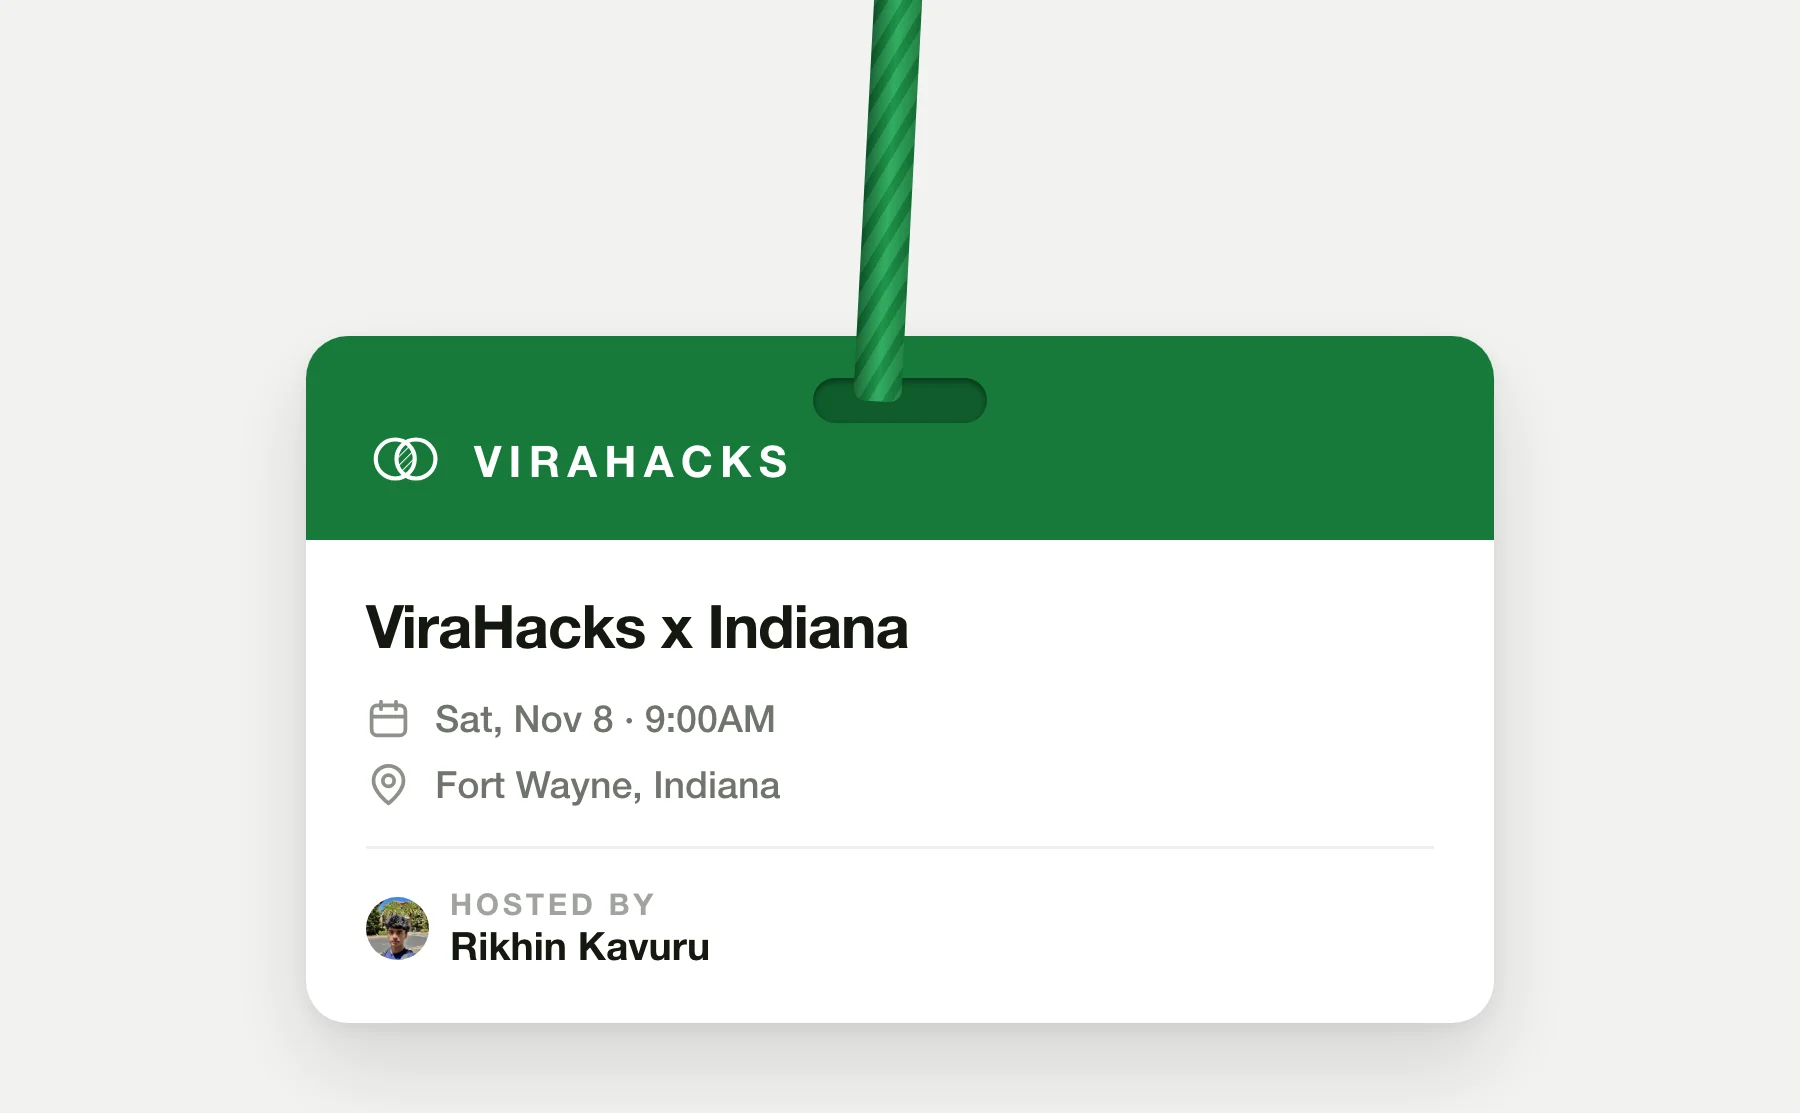
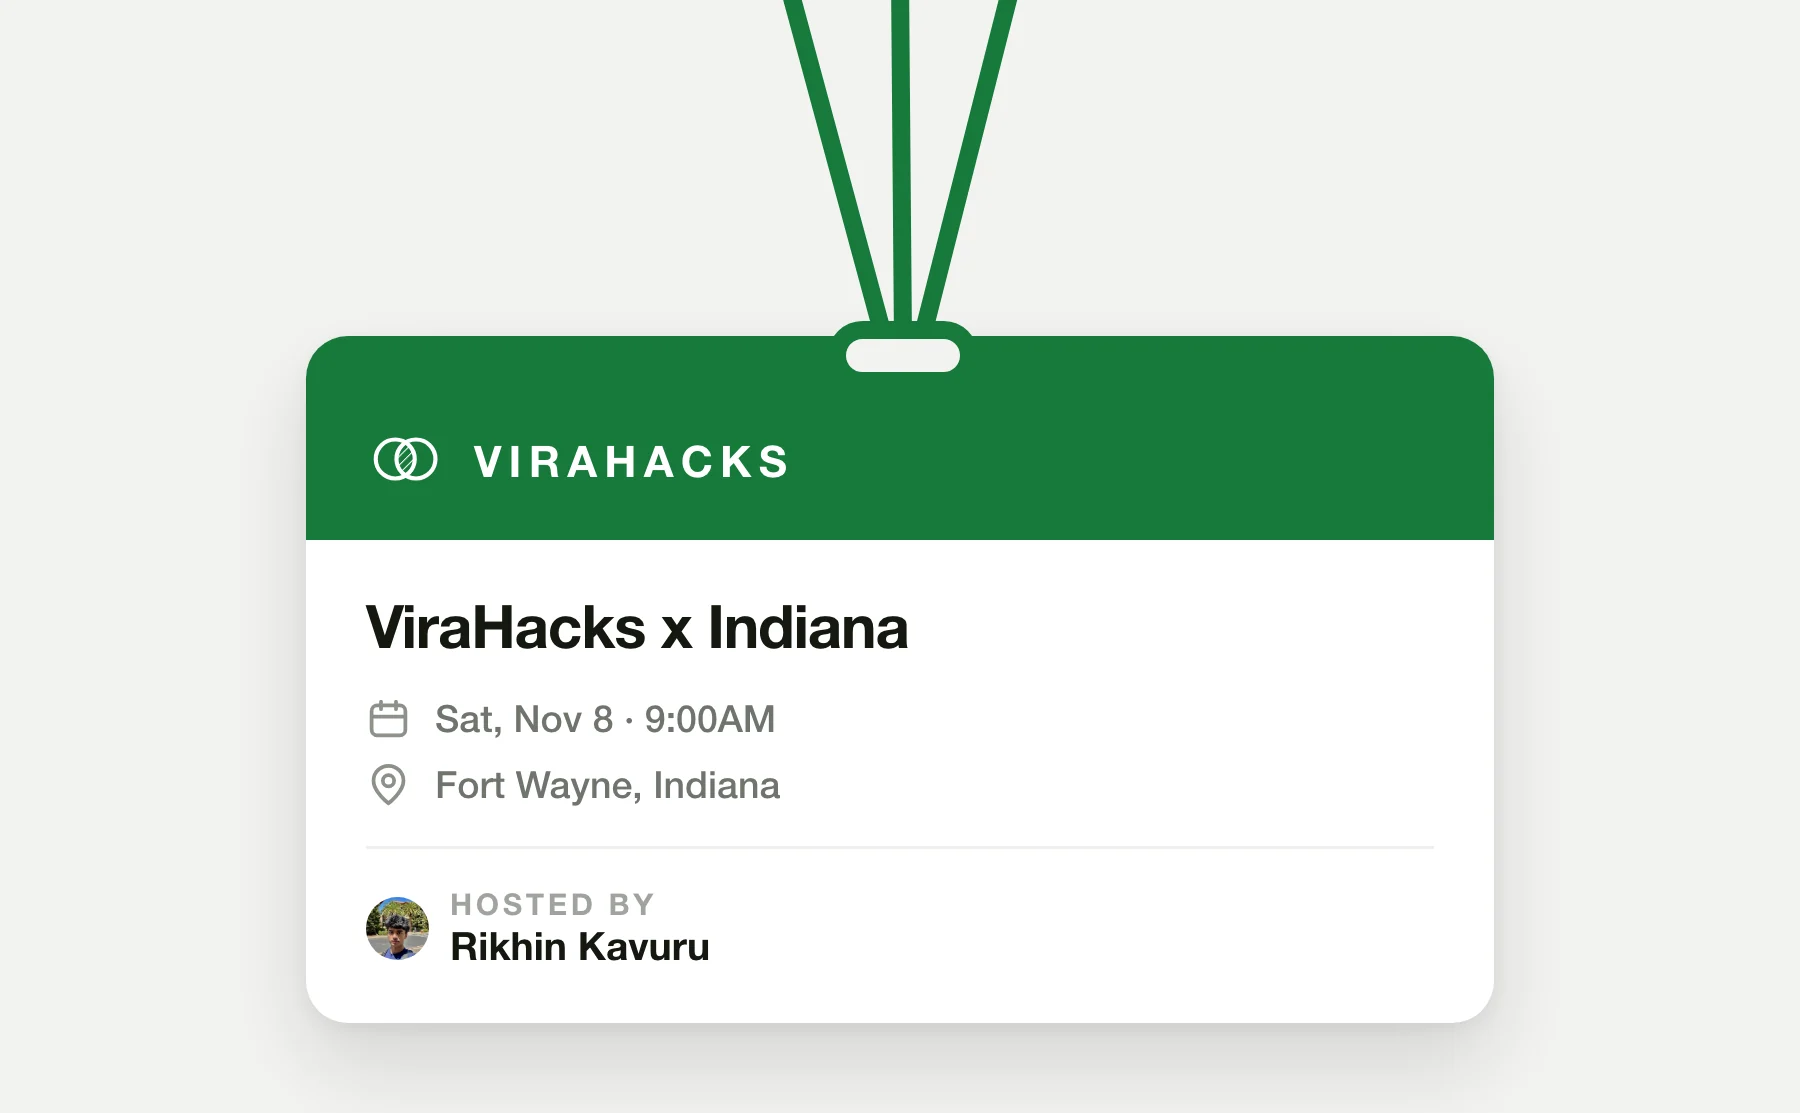
Flat 2D lanyard, quieter inline marks, and a fix for the bouncing header
The header oscillation was a feedback loop, not a rendering fault. Collapsing
shortens the header by about 50px, which shortens the document; a scroll
position sitting near the single 80px threshold got pushed back under it by
that very height change, expanding the header, lengthening the page, and
crossing the threshold again. Collapse and expand now use separate thresholds
(120 and 32) with a dead band wider than the height change, so the state cannot
flip back on its own. Swept the scroll range and parked at the page bottom:
one clean transition, zero flips.

The lanyard is drawn as flat SVG strokes: three strands splayed at the top,
converging into an outlined ring on the card's edge. The previous version was a
shaded, textured rope, which read as heavy next to everything else.

Yale and Adaptyv lose their underlines and hover previews inside the bio. The
names now just take their brand colour on hover, which is enough signal in a
three-line paragraph. Preview art deleted with the code that used it.

Every Experience row links to its organisation's homepage.

Changed region(s): [[0.4356, 0.0, 0.56, 0.3971]]

diff --git a/components/Mark.tsx b/components/Mark.tsx
@@ -1,11 +1,7 @@
 "use client";
 
-import { AnimatePresence, motion } from "motion/react";
-import { useEffect, useRef, useState } from "react";
 import { marks } from "@/lib/content";
 import FallbackImage from "./FallbackImage";
-
-const EASE = [0.32, 0.72, 0, 1] as const;
 
 /**
  * Inline company mark, sized in `em` so it tracks the surrounding text.
@@ -72,8 +68,9 @@ export function InlineMark({
 }
 
 /**
- * A company name in prose preceded by its mark. When the mark has a preview
- * screenshot, hovering the link floats it above the line.
+ * A company name in prose, preceded by its mark. The label picks up the brand
+ * colour on hover; no underline and no preview card, which read as too much
+ * decoration inside a short paragraph.
  */
 export function MarkedName({
   name,
@@ -84,33 +81,17 @@ export function MarkedName({
   label: string;
   href?: string;
 }) {
-  const [open, setOpen] = useState(false);
-  const closeTimer = useRef<ReturnType<typeof setTimeout> | null>(null);
-  const preview = marks[name]?.preview;
-
-  useEffect(() => {
-    return () => {
-      if (closeTimer.current) clearTimeout(closeTimer.current);
-    };
-  }, []);
-
-  const show = () => {
-    if (closeTimer.current) clearTimeout(closeTimer.current);
-    setOpen(true);
-  };
-
-  // Closing on a delay leaves the gap between the word and the card
-  // crossable; otherwise the card vanishes the moment the pointer leaves the
-  // text and can never be reached.
-  const hide = () => {
-    if (closeTimer.current) clearTimeout(closeTimer.current);
-    closeTimer.current = setTimeout(() => setOpen(false), 220);
-  };
+  const tint = marks[name]?.tint;
 
   const inner = (
     <>
       <InlineMark name={name} label={label} />
-      <span>{label}</span>
+      <span
+        className="transition-colors group-hover:[color:var(--tint)]"
+        style={{ "--tint": tint } as React.CSSProperties}
+      >
+        {label}
+      </span>
     </>
   );
 
@@ -119,48 +100,14 @@ export function MarkedName({
   }
 
   return (
-    <span
-      className="relative inline-block whitespace-nowrap"
-      onMouseEnter={show}
-      onMouseLeave={hide}
+    <a
+      href={href}
+      target="_blank"
+      rel="noreferrer"
+      className="group whitespace-nowrap"
     >
-      <a
-        href={href}
-        target="_blank"
-        rel="noreferrer"
-        onFocus={show}
-        onBlur={hide}
-        className="underline decoration-secondary decoration-2 underline-offset-[3px] transition-[text-decoration-color] hover:decoration-primary"
-      >
-        {inner}
-      </a>
-
-      <AnimatePresence>
-        {open && preview && (
-          <motion.span
-            // Hoverable, so moving onto the card keeps it open.
-            onMouseEnter={show}
-            onMouseLeave={hide}
-            className="absolute top-full left-1/2 z-[200] mt-2 block w-72 -translate-x-1/2 rounded-2xl bg-white p-2 shadow-[0_16px_50px_rgba(0,0,0,0.28)] ring-1 ring-black/10"
-            initial={{ opacity: 0, y: -6, scale: 0.96 }}
-            animate={{ opacity: 1, y: 0, scale: 1 }}
-            exit={{ opacity: 0, y: -4, scale: 0.98 }}
-            transition={{ duration: 0.18, ease: EASE }}
-          >
-            {/* eslint-disable-next-line @next/next/no-img-element */}
-            <img
-              src={preview}
-              alt=""
-              width={780}
-              height={467}
-              loading="lazy"
-              decoding="async"
-              className="block w-full rounded-xl"
-            />
-          </motion.span>
-        )}
-      </AnimatePresence>
-    </span>
+      {inner}
+    </a>
   );
 }
 

diff --git a/lib/content.ts b/lib/content.ts
@@ -20,8 +20,6 @@ export const profile = {
  */
 export type Mark = {
   src?: string;
-  /** Screenshot shown when the linked name is hovered. */
-  preview?: string;
   /** Swapped in under dark mode, for marks that would otherwise disappear. */
   srcDark?: string;
   /** Brand colour the label tints to on hover, matching kominko's inline marks. */
@@ -37,14 +35,12 @@ export const marks: Record<string, Mark> = {
   /** Transparent-background twins, for setting inline in prose. */
   yaleMark: {
     src: "/logos/yale-mark.webp",
-    preview: "/previews/yale.webp",
     tint: "#00356b",
     fallbackBg: "#00356b",
   },
   adaptyv: { src: "/logos/adaptyv.webp", tint: "#5aa8cc", fallbackBg: "#5aa8cc" },
   adaptyvMark: {
     src: "/logos/adaptyv-mark.webp",
-    preview: "/previews/adaptyv.webp",
     tint: "#5aa8cc",
     fallbackBg: "#5aa8cc",
   },
@@ -171,6 +167,7 @@ export type Experience = {
 export const experience: Experience[] = [
   {
     org: "Convexia",
+    href: "https://www.convexia.bio/",
     role: "Machine Learning Engineer",
     detail: "Models that predict clinical trial success for drug assets.",
     when: "Current",
@@ -179,6 +176,7 @@ export const experience: Experience[] = [
   },
   {
     org: "Broad Institute of MIT and Harvard",
+    href: "https://www.broadinstitute.org/",
     role: "Machine Learning Research Intern",
     detail: "Machine learning methods for drug design and phylogenetics.",
     when: "Current",
@@ -187,6 +185,7 @@ export const experience: Experience[] = [
   },
   {
     org: "Yale Department of Neurology",
+    href: "https://medicine.yale.edu/neurology/",
     role: "Computational Biology Research Assistant",
     detail: "Spatial mapping of cell interactions in MS brain tissue.",
     when: "2026",
@@ -194,6 +193,7 @@ export const experience: Experience[] = [
   },
   {
     org: "Adaptyv Bio",
+    href: "https://www.adaptyvbio.com/",
     role: "Data Science Intern",
     detail: "Protein screening analysis. One of six interns from 400+ applicants.",
     when: "2025",
@@ -201,6 +201,7 @@ export const experience: Experience[] = [
   },
   {
     org: "Purdue University Fort Wayne",
+    href: "https://www.pfw.edu/",
     role: "Computational Biochemistry Researcher",
     detail: "Virtual screening and molecular docking against STAT3.",
     when: "2024-25",

diff --git a/components/ProfileHeader.tsx b/components/ProfileHeader.tsx
@@ -8,8 +8,18 @@ import Avatar from "./Avatar";
 import CopyEmail from "./CopyEmail";
 import ThemeToggle from "./ThemeToggle";
 
-/** Scroll offset, in px, where the header finishes collapsing. */
-const COLLAPSE_AT = 80;
+/**
+ * Collapse and expand use separate thresholds on purpose.
+ *
+ * Collapsing shortens the header by roughly 50px, which shortens the document.
+ * With one threshold, a scroll position sitting near it could be pushed back
+ * under it by that very height change, expanding the header, lengthening the
+ * page, crossing the threshold again -- a visible loop of the header zooming
+ * in and out. The dead band between these two values is wider than the height
+ * change, so the state cannot flip back on its own.
+ */
+const COLLAPSE_AT = 120;
+const EXPAND_AT = 32;
 
 const EASE = [0.32, 0.72, 0, 1] as const;
 const SPRING = { type: "spring", stiffness: 400, damping: 40, mass: 0.6 } as const;
@@ -28,7 +38,7 @@ export default function ProfileHeader({ crumbs }: { crumbs?: Crumb[] }) {
   const [collapsed, setCollapsed] = useState(false);
 
   useMotionValueEvent(scrollY, "change", (y) => {
-    setCollapsed(y > COLLAPSE_AT);
+    setCollapsed((was) => (was ? y > EXPAND_AT : y > COLLAPSE_AT));
   });
 
   const isSubPage = Boolean(crumbs?.length);
